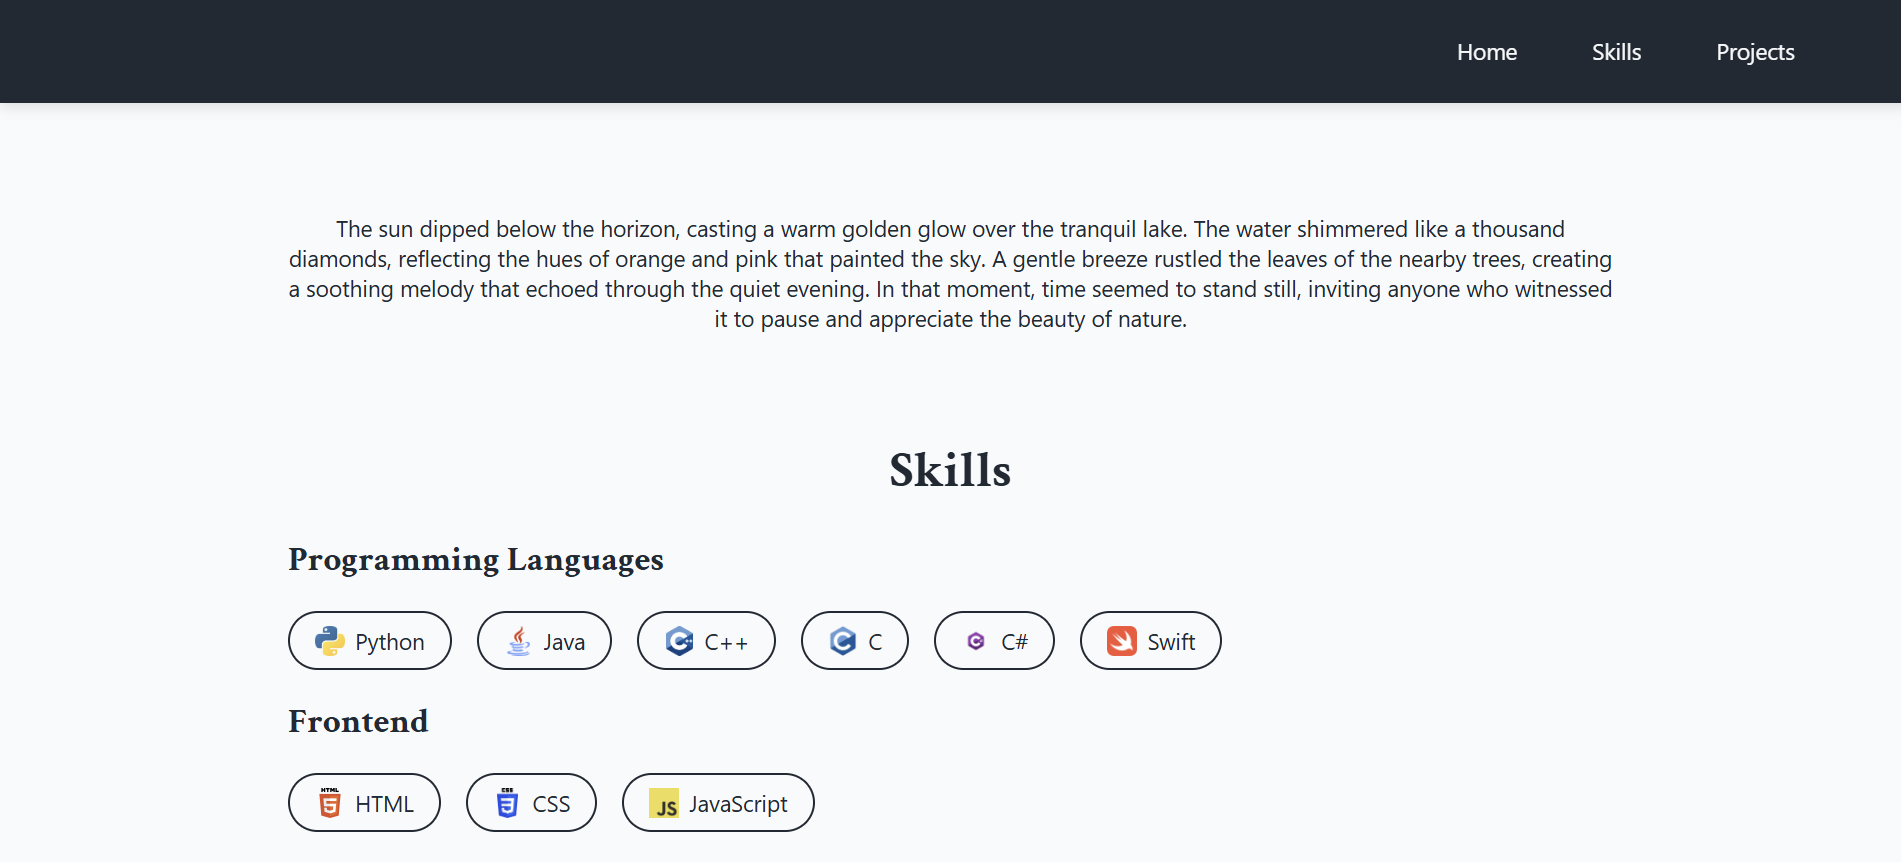
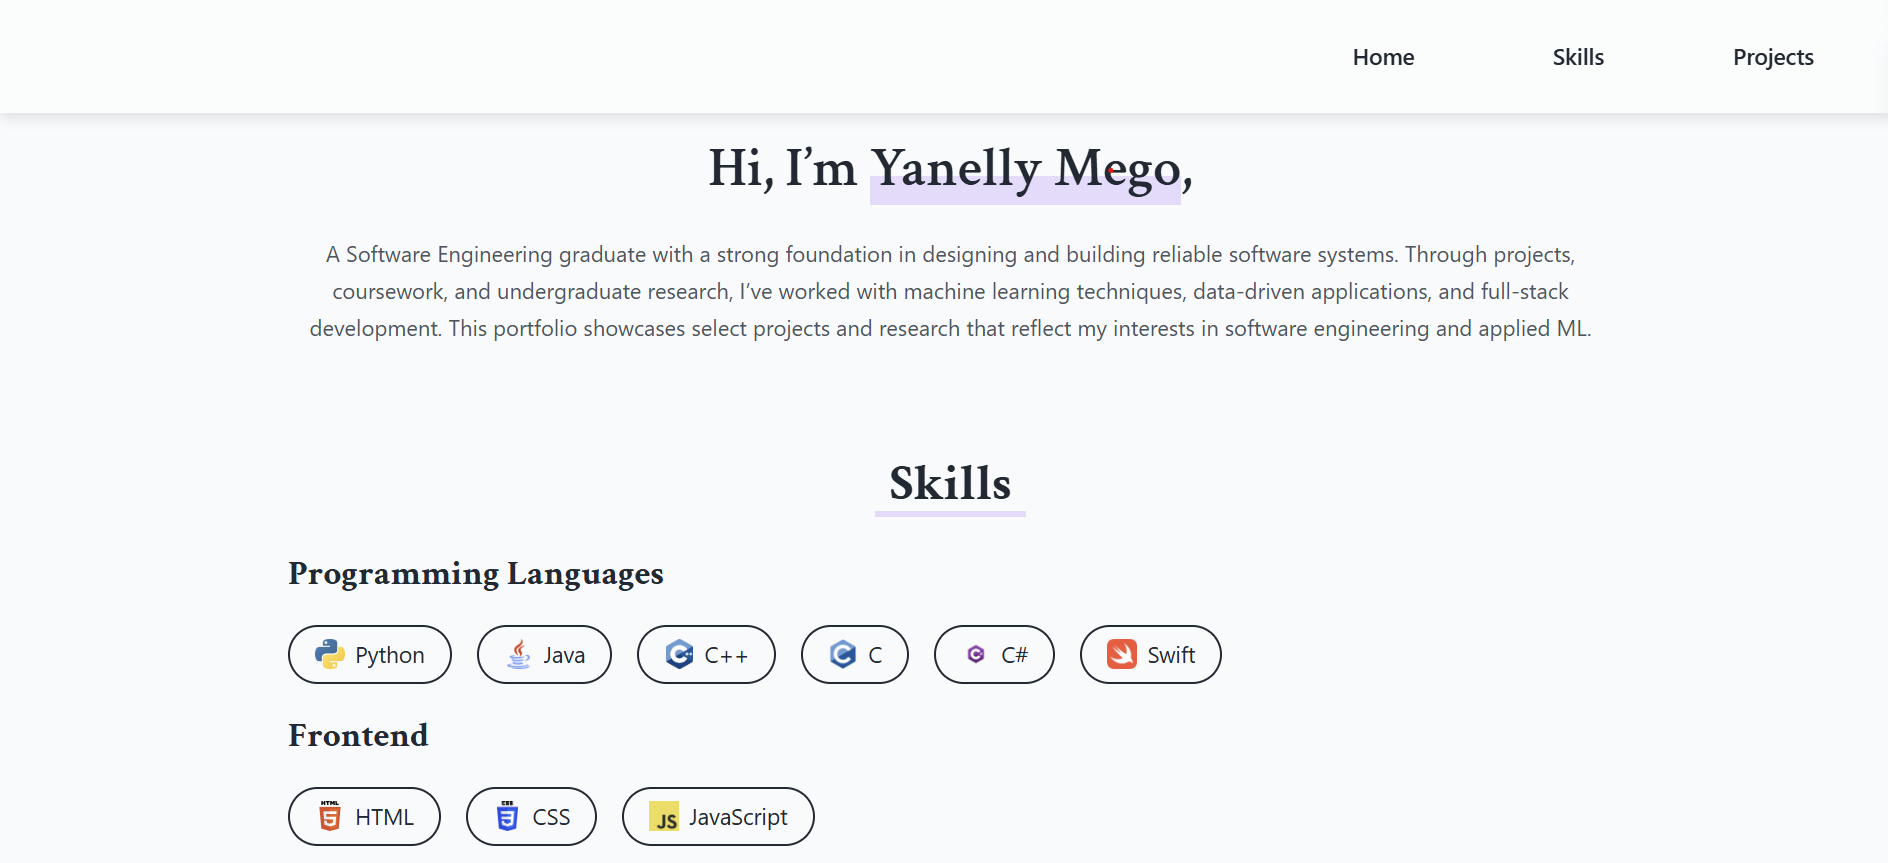
Updated navbar, introduction, and a project card
Website aesthetic has been modified a bit from previously

diff --git a/styles.css b/styles.css
@@ -1,44 +1,61 @@
 header {
     display: flex;
     justify-content: flex-end;
-    background-color: #1f2933;
-    padding: 10px 35px;
-    box-shadow: 0 4px 10px rgba(0, 0, 0, 0.1);
-
     position: fixed;
+    top: 0;
     width: 100%;
+    background: rgba(255, 255, 255, 0.3);
+    backdrop-filter: blur(10px); 
+    box-shadow: 0 4px 10px rgba(0, 0, 0, 0.1);
+    padding: 1.5rem 2rem;
+    z-index: 1000;
+
+    /* background-color: #1f2933; */
+    /* padding: 10px 35px; */
 }
 
 header ul {
     display: flex;
     list-style: none;
-    width: 250px;
-    margin: 10px;
+    gap: 1rem;
+    margin: 0;
     padding: 0;
+    padding-right: 4rem;
+
+    /* width: 250px;
+    margin: 10px;
     justify-content: flex-end;
     padding-right: 90px;
-    gap: 20px;
+    gap: 20px; */
 }
 
 header li {
-    /* background-color: #2b2e34; */
-    width: 100px;
-    padding: 10px 20px;
+    width: 6.25rem;
     text-align: center;
-    color: #f9fafb;
-    font-size: 18px;
-    cursor: pointer;                
+    padding: 0.625rem 1.25rem;
+
+    /* cursor: pointer; */
+    /* background-color: #2b2e34;  */
+    /* width: 100px; */
+    /* padding: 10px 20px; */
+    /* color: #f9fafb; */
+    /* font-size: 18px; */
 }
 
-header li:hover {
-    background-color: #374151;      /* slightly lighter/darker on hover */
-    transform: translateY(-2px);    /* subtle lift effect */
-}
 
 header nav a{
-    color: #f9fafb;
+    color: #1f2933;
+    font-weight: 500;
     text-decoration: none;
 }
+
+header a:hover {
+    /* color: #a3a8e8; */
+    /* color: #BFA5FF; */
+    color: #cbb0f5;
+}
+
+
 
 h1{
     font-family: "Crimson Text", serif; 
@@ -164,19 +181,22 @@ html {
 
 .project-card {
     background-color: #ffffff;
-    border-radius: 16px;
-    padding: 24px;
+    border-radius: 1.1rem;
+    padding: 1.5rem;
     box-shadow: 0 8px 20px rgba(0,0,0,0.08);
     transition: transform 0.2s ease, box-shadow 0.2s ease;
+    z-index: 1;
 }
 
 .project-card:hover {
-    transform: translateY(-6px);
+    transform: translateY(-5px);
     box-shadow: 0 12px 28px rgba(0,0,0,0.12);
 }
 
 .project-card h3 {
     margin-top: 0;
+    /* color: #1f2933; */
+    /* font-weight: 700; */
 }
 
 .project-card.hidden {
@@ -184,25 +204,44 @@ html {
 }
 
 .tags-container {
-  display: flex;
-  flex-wrap: wrap;
-  gap: 0.5rem;
-  margin: 0.5rem 0;
+    display: flex;
+    flex-wrap: wrap;
+    gap: 0.5rem;
+    margin: 0.5rem 0;
 }
 
 .tag {
-  padding: 0.25rem 0.75rem;
-  font-size: 0.75rem;
-  border-radius: 999px; 
-  background-color: #ffe8fa;
-  color: #970890;
-  font-weight: 500;
+    padding: 0.25rem 0.75rem;
+    font-size: 0.75rem;
+    border-radius: 999px; 
+
+    background-color: rgba(197, 160, 255, 0.2);
+    color: #925ddb;
+    /* color: #a3a8e8; */
+
+    /* background-color: rgba(199, 201, 226, 0.25);
+    color: #4b4f7a; */
+
+    /* background-color: rgba(242, 198, 180, 0.35);
+    color: #7a4b3e; */
+
+    /* background-color: #f5e5ffc1;
+    color: #cba3e8; */
+
+    /* background-color: #ffe8fa;
+    color: #970890; */
+
+    font-weight: 500;
 }
 
 .project-card .project-desc {
-    margin-top: 10px;
-    margin-bottom: 10px;
-    font-size: 16px;
+    margin: 0.75rem 0 1rem;
+    font-size: 1rem;
+    line-height: 1.5;
+    color: #4b5563;
+    /* margin-top: 10px;
+    margin-bottom: 10px; */
+    /* font-size: 16px; */
 }
 
 .project-card .links {
@@ -212,19 +251,24 @@ html {
 }
 
 .project-card .links a {
-    background-color: #eebbdd;
-    text-decoration: none;
+    background-color:  #cbb0f5;
     color: #000000;
+
+    /* background-color: #eebbdd; */
+    /* color: #000000; */
+
+    text-decoration: none;
     font-weight: 500;
-    text-align: center;
-    vertical-align: middle;
+
     display: flex;
     align-items: center; 
     gap: 0.6rem;
-    padding: 10px;
-    padding-left: 15px;
-    padding-right: 15px; 
-    border-radius: 10px;
+
+    padding: 0.625rem;
+    padding-left: 1rem;
+    padding-right: 1rem;
+
+    border-radius: 0.8rem;
 }
 
 .project-card .links a .github-icon {
@@ -233,26 +277,6 @@ html {
   display: inline-block;
 }
 
-/* 
-.filters {
-  display: flex;
-  gap: 0.5rem;
-  margin-bottom: 1.5rem;
-  flex-wrap: wrap;
-}
-
-.filters button {
-  padding: 0.4rem 0.9rem;
-  border-radius: 999px;
-  border: 1px solid #ccc;
-  background: white;
-  cursor: pointer;
-  font-size: 0.8rem;
-}
-
-.filters button:hover {
-  background-color: #f2f2f2;
-} */
 
 .project-image {
   width: 100%;
@@ -274,13 +298,44 @@ html {
   outline: none; /* remove default focus outline */
 }
 
-/* Optional: add hover effect */
-#languageFilter:hover {
-  border-color: #888;
+.accent {
+  background: linear-gradient(
+    to top,
+    rgba(197, 160, 255, 0.35) 40%,
+    transparent 40%
+  );
 }
 
-/* Optional: focus effect */
-#languageFilter:focus {
-  border-color: #555;
-  box-shadow: 0 0 3px rgba(0,0,0,0.2);
+
+.accent2 {
+    display: inline-block; /* important for background sizing */
+    position: relative;
+    padding-left: 0.3em;  /* extra space on left */
+    padding-right: 0.3em; /* extra space on right */
+
+
+    background: linear-gradient(
+    to top,
+    rgba(197, 160, 255, 0.35) 40%,
+    transparent 40%
+    );
+
+    background-repeat: no-repeat;
+    background-size: 100% 0.35em;
+    background-position: bottom;
 }
+
+.hero h1 {
+  font-size: 2.8rem;
+  font-weight: 600;
+  margin-bottom: 1.5rem;
+  color: #1f2933;
+}
+
+.hero p {
+  font-size: 1.1rem;
+  line-height: 1.7;
+  /* max-width: 650px; */
+  color: #4b5563;
+}
+

diff --git a/index.html b/index.html
@@ -8,6 +8,7 @@
     <link rel="preconnect" href="https://fonts.googleapis.com">
     <link rel="preconnect" href="https://fonts.gstatic.com" crossorigin>
     <link href="https://fonts.googleapis.com/css2?family=Crimson+Text:ital,wght@0,400;0,600;0,700;1,400;1,600;1,700&display=swap" rel="stylesheet">
+    <link rel="icon" type="image/png" href="Images/favicon.png">
     <script src="script.js" defer></script>
     <title>Yanelly's Portfolio</title>
 </head>
@@ -24,11 +25,22 @@
     </header>
 
     <main>
-        <section id="bio">
+        <!-- <section id="bio">
             <p>Hi! I'm Yanelly Mego, a Software Engineering graduate with a strong foundation in designing and building reliable software systems. Through projects, coursework, and undergraduate research, I’ve worked with machine learning techniques, data-driven applications, and full-stack development. This site showcases selected projects and research that reflect my interests in software engineering and applied ML.</p>
+        </section> -->
+        <section id="bio" class="hero">
+        <div class="hero-content">
+            <h1>Hi, I’m <span class="accent">Yanelly Mego</span>,</h1>
+            <p>
+            A Software Engineering graduate with a strong foundation in designing and building reliable software systems. 
+            Through projects, coursework, and undergraduate research, I’ve worked with machine learning techniques, 
+            data-driven applications, and full-stack development. This portfolio showcases select projects and research that reflect my interests in software engineering and applied ML.
+            </p>
+        </div>
         </section>
+
         <section id="skills">
-            <h1>Skills</h1>
+            <h1><span class="accent2">Skills</span></h1>
             <h2>Programming Languages</h2>
                 <ul>
                     <li><img src="Images/python.png" alt="Python icon"> Python</li>
@@ -56,7 +68,7 @@
                 </ul>
         </section>
         <section id="projects">
-            <h1>Projects</h1>
+            <h1><span class="accent2">Projects</span></h1>
             
         <div class="filters">
             <label for="languageFilter" class="visually-hidden">

diff --git a/script.js b/script.js
@@ -43,7 +43,7 @@ const projects = [
   },
   { 
     title: "LSTM Text Classification Model—<em>The Yellow Wallpaper</em>", 
-    image: "",
+    image: "Images/yellowwallpaper-cover.png",
     tags: ["Python"],
     desc: "This project implements a data-driven LSTM model in Python using TensorFlow to perform predictive language modeling. It includes a scalable text preprocessing pipeline that cleans, tokenizes, and sequences over 10,000 words, with model training optimized through batch processing, validation sets, and multiple epochs.",
     // github_link: ""
